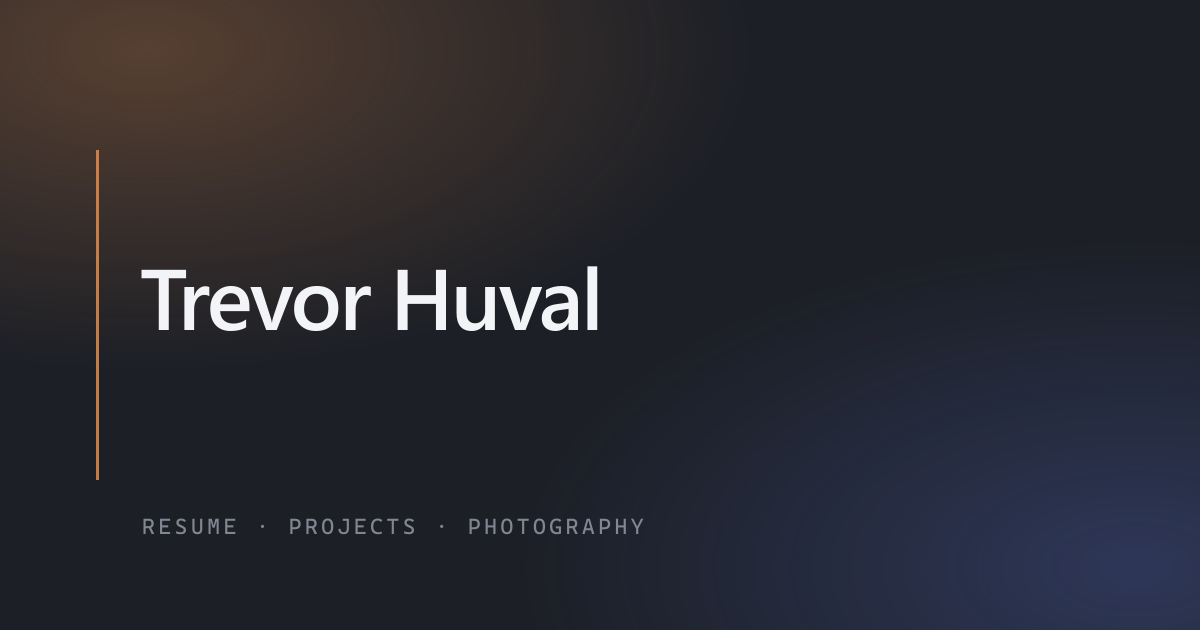
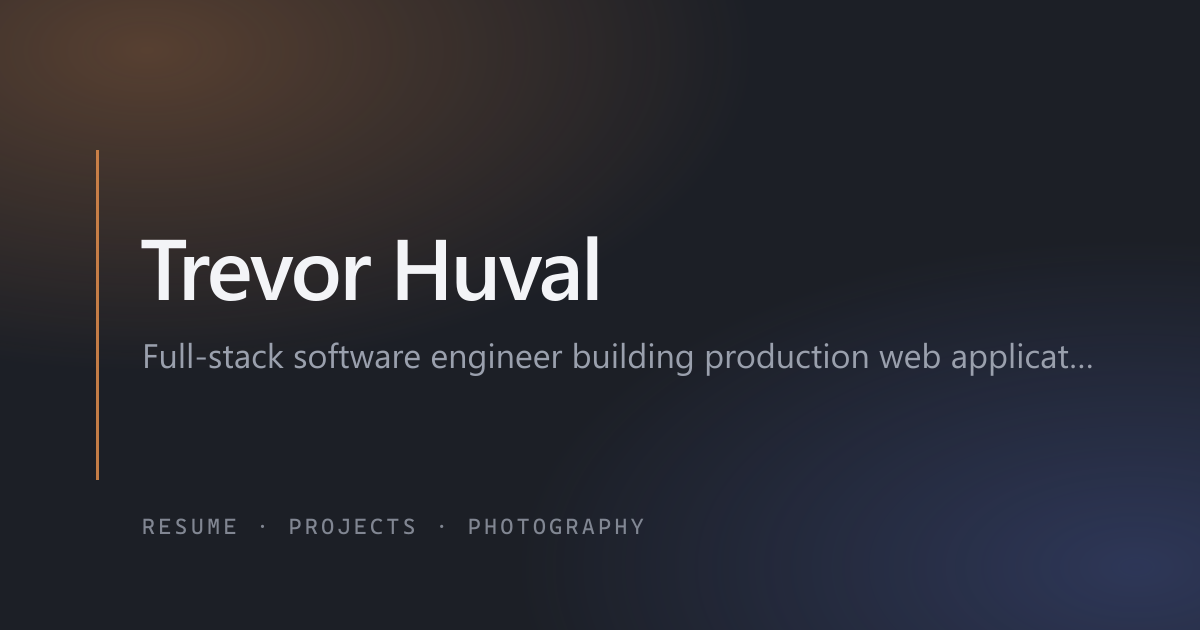
ci: build and publish to GitHub Pages
Deploy on push to main, with SITE_URL set so the Open Graph URLs come out
absolute and a sitemap is emitted. Lint and the content lint run before the
build rather than after, so a bad content edit stops the deploy instead of
shipping. Deployment authenticates with the built-in OIDC token, so there is no
secret to manage.

public/CNAME carries the custom domain; without it the first Actions deploy
clears the domain setting on the repo.

Also fix the Person JSON-LD, which was passing the headline as jobTitle. That
field wants a job title, not a sentence, so it now comes from the current role
in the resume.

Changed region(s): [[0.1233, 0.3619, 0.8942, 0.6032]]

diff --git a/src/web/scripts/site-meta.ts b/src/web/scripts/site-meta.ts
@@ -27,6 +27,10 @@ interface Profile {
   links: { gitHub: string; linkedIn: string }
 }
 
+interface Resume {
+  experience: { title: string; endDate: string | null }[]
+}
+
 /** Pages a crawler should know about, mirroring the routes in `App.tsx`. */
 const ROUTES = ['/', '/resume', '/projects', '/photos'] as const
 
@@ -41,13 +45,14 @@ export function siteMeta(options: { dataDir: string; publicDir: string }): Plugi
     },
 
     transformIndexHtml(html) {
-      const profile = readProfile(options.dataDir)
+      const profile = readJson<Profile>(options.dataDir, 'profile.json')
+      const resume = readJson<Resume>(options.dataDir, 'resume.json')
       const description = describe(profile)
 
       return html
         .replace(
           '</head>',
-          `  <script type="application/ld+json">${personSchema(profile, description, siteUrl)}</script>\n  </head>`,
+          `  <script type="application/ld+json">${personSchema(profile, resume, description, siteUrl)}</script>\n  </head>`,
         )
         .replace(/%SITE_([A-Z_]+)%/g, (match, key: string) => {
           switch (key) {
@@ -100,17 +105,27 @@ export function siteMeta(options: { dataDir: string; publicDir: string }): Plugi
  * a placeholder URL in there would be worse than no block at all, so anything
  * still unfilled is dropped.
  */
-function personSchema(profile: Profile, description: string, siteUrl: string): string {
+function personSchema(
+  profile: Profile,
+  resume: Resume,
+  description: string,
+  siteUrl: string,
+): string {
   const sameAs = [profile.links.gitHub, profile.links.linkedIn].filter(
     (link) => link.startsWith('http'),
   )
+
+  // `jobTitle` wants a job title, not a sentence — the headline is prose and
+  // reads as nonsense in a knowledge panel. The current role is the real
+  // answer, and the résumé already knows it.
+  const jobTitle = real(resume.experience.find((role) => role.endDate === null)?.title ?? '')
 
   return JSON.stringify({
     '@context': 'https://schema.org',
     '@type': 'Person',
     name: profile.name,
     description,
-    ...(real(profile.headline) === null ? {} : { jobTitle: profile.headline }),
+    ...(jobTitle === null ? {} : { jobTitle }),
     ...(real(profile.location) === null ? {} : { address: profile.location }),
     ...(sameAs.length === 0 ? {} : { sameAs }),
     ...(siteUrl === '' ? {} : { url: siteUrl, image: `${siteUrl}/og.png` }),
@@ -122,8 +137,8 @@ function real(value: string): string | null {
   return value !== '' && !value.startsWith('TODO:') ? value : null
 }
 
-function readProfile(dataDir: string): Profile {
-  return JSON.parse(readFileSync(path.join(dataDir, 'profile.json'), 'utf8')) as Profile
+function readJson<T>(dataDir: string, fileName: string): T {
+  return JSON.parse(readFileSync(path.join(dataDir, fileName), 'utf8')) as T
 }
 
 /**
